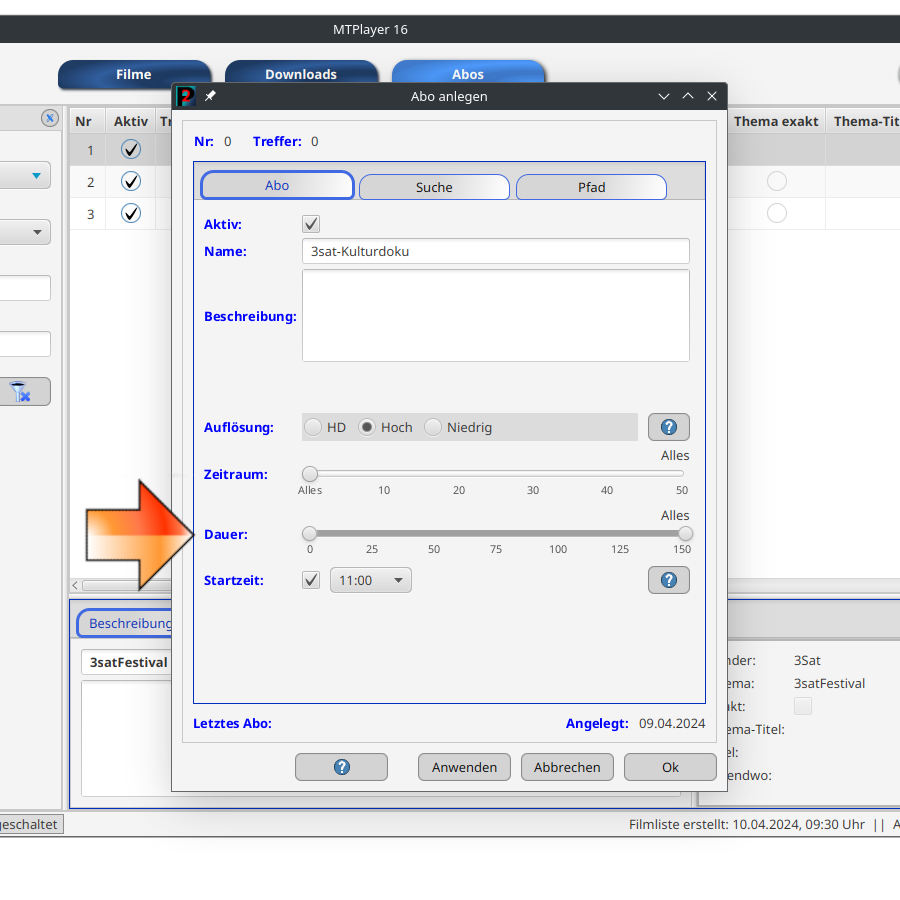
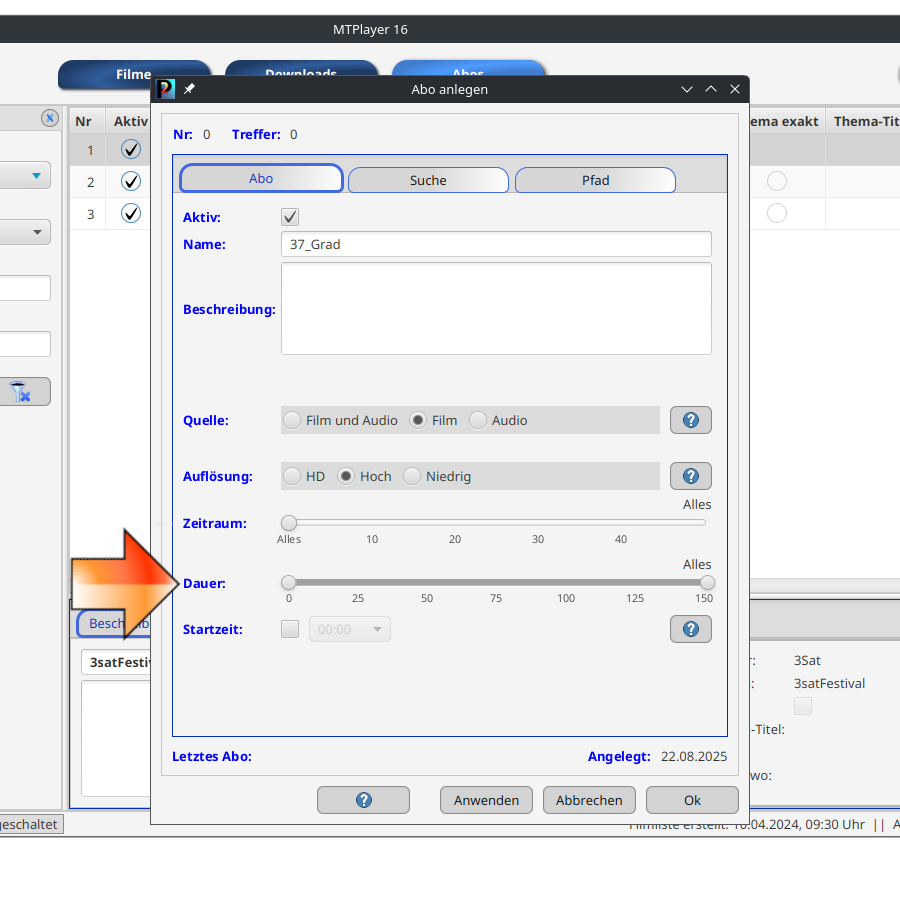
audiolist, tipOfDay, whatsNew

Changed region(s): [[0.0622, 0.0622, 0.84, 0.9333], [0.3111, 0.6844, 0.3422, 0.7156]]

diff --git a/src/main/java/de/p2tools/mtplayer/gui/tools/ProgTipOfDayFactory.java b/src/main/java/de/p2tools/mtplayer/gui/tools/ProgTipOfDayFactory.java
@@ -79,15 +79,17 @@ public class ProgTipOfDayFactory {
         pToolTipList.add(pToolTip);
 
         text = START;
-        text += "Live-Suche in den ARD/ZDF\n" +
-                "Mediatheken:\n\n" +
+        text += "Live-Suche in den\n" +
+                "ARD/ZDF Mediatheken:\n\n" +
                 "Ist die Live-Suche eingeschaltet,\n" +
                 "kann damit in den Mediatheken\n" +
                 "von ARD und ZDF gesucht werden.\n" +
                 "Es ist auch möglich, mit der URL\n" +
                 "einer Filmseite den Film zu suchen.\n" +
                 "Die Filme können dann ganz normal\n" +
-                "angesehen oder gespeichert werden.";
+                "angesehen oder gespeichert werden.\n" +
+                "In den Einstellungen kann die \n" +
+                "Live-Suche ausgeblendet werden.";
         image = "/de/p2tools/mtplayer/res/tooltips/Live_Suche.png";
         pToolTip = new P2TipOfDay(text, image);
         pToolTipList.add(pToolTip);
@@ -173,6 +175,16 @@ public class ProgTipOfDayFactory {
 
         text = START;
         text += "In den Einstellungen des Abos\n" +
+                "kann auch vorgeben werden,\n" +
+                "ob ein Beitrag in der\n" +
+                "Filmliste/Audioliste oder\n" +
+                "beiden gesucht werden soll.";
+        image = "/de/p2tools/mtplayer/res/tooltips/AboEinstellungen_Quelle.png";
+        pToolTip = new P2TipOfDay(text, image);
+        pToolTipList.add(pToolTip);
+
+        text = START;
+        text += "In den Einstellungen des Abos\n" +
                 "kann auch die Startzeit\n" +
                 "der Downloads aus diesem\n" +
                 "Abo vorgegeben werden.\n\n" +
@@ -202,7 +214,8 @@ public class ProgTipOfDayFactory {
                 "wichtig sind.\n\n" +
                 "Das untere Menü ist immer\n" +
                 "für den jeweils angezeigten\n" +
-                "Tab (Filme, Live, Downloads, Abos).";
+                "Tab (Filme, Audios,\n" +
+                "Live, Downloads, Abos).";
         image = "/de/p2tools/mtplayer/res/tooltips/Menue.png";
         pToolTip = new P2TipOfDay(text, image);
         pToolTipList.add(pToolTip);
@@ -283,17 +296,18 @@ public class ProgTipOfDayFactory {
 
         text = START;
         text += "Einstellungen zum Filtern\n" +
-                "im Tab Filme können hier\n" +
-                "erreicht werden.";
+                "im Tab Filme/Audios können\n" +
+                "hier erreicht werden.";
         image = "/de/p2tools/mtplayer/res/tooltips/GuiFilme_Filter_1.png";
         pToolTip = new P2TipOfDay(text, image);
         pToolTipList.add(pToolTip);
 
         text = START;
         text += "In den Filtereinstellungen bei\n" +
-                "den Filmen können Filter ein- und\n" +
-                "ausgeschaltet werden. Beim Suchen werden\n" +
-                "nur die eingeschalteten Filter\n" +
+                "den Filmen/Audios können Filter\n" +
+                "ein- und ausgeschaltet werden.\n" +
+                "Beim Suchen werden nur\n" +
+                "die eingeschalteten Filter\n" +
                 "verwendet. Das Suchen ist schneller\n" +
                 "wenn nicht alle Filter eingeschaltet sind.";
         image = "/de/p2tools/mtplayer/res/tooltips/GuiFilme_Filter_2.png";
@@ -302,14 +316,25 @@ public class ProgTipOfDayFactory {
 
         text = START;
         text += "In den Filtereinstellungen bei\n" +
-                "den Filmen kann eine Wartezeit\n" +
-                "vorgegeben werden.\n\n" +
+                "den Filmen/Audios kann eine\n" +
+                "Wartezeit vorgegeben werden.\n\n" +
                 "Diese wird dann bei der Suche\n" +
                 "in den Textfeldern abgewartet,\n" +
                 "bis die Suche beginnt.\n\n" +
                 "Es wird dann nicht bei jedem\n" +
                 "Buchstaben die Suche gestartet.";
         image = "/de/p2tools/mtplayer/res/tooltips/GuiFilme_Filter_3.png";
+        pToolTip = new P2TipOfDay(text, image);
+        pToolTipList.add(pToolTip);
+
+        text = START;
+        text += "In den Filmen/Audios kann ein\n" +
+                "einfacher Filter über das\n" +
+                "Menü eingestellt werden. Er\n" +
+                "enthält nur das nötigste und\n" +
+                "ist dadurch etwas leichter\n" +
+                "zu bedienen.";
+        image = "/de/p2tools/mtplayer/res/tooltips/EinfacherFilter.png";
         pToolTip = new P2TipOfDay(text, image);
         pToolTipList.add(pToolTip);
     }

diff --git a/src/main/java/de/p2tools/mtplayer/controller/update/WhatsNewList.java b/src/main/java/de/p2tools/mtplayer/controller/update/WhatsNewList.java
@@ -39,13 +39,7 @@ public class WhatsNewList extends ArrayList<WhatsNewInfo> {
     }
 
     private void addWhatsNew() {
-        WhatsNewInfo whatsNewInfo = new WhatsNewInfo(LocalDate.of(2025, 4, 7),
-                "",
-                "Live-Suche ZDF",
-                "Die Live-Suche für das ZDF wurde an die geänderte Mediathek angepasst.", 50);
-        add(whatsNewInfo);
-
-        whatsNewInfo = new WhatsNewInfo(LocalDate.of(2025, 4, 28),
+        WhatsNewInfo whatsNewInfo = new WhatsNewInfo(LocalDate.of(2025, 4, 28),
                 "/de/p2tools/mtplayer/res/whatsnew/whatsNew_bookmark.png",
 
                 "Bookmarks",
@@ -63,6 +57,19 @@ public class WhatsNewList extends ArrayList<WhatsNewInfo> {
                         "angezeigt werden. Er enthält nur das nötigste und ist " +
                         "übersichtlicher. Umschalten lässt sich das " +
                         "im Film-Menü->Einfacher Filter.", 100);
+        add(whatsNewInfo);
+
+        whatsNewInfo = new WhatsNewInfo(LocalDate.of(2025, 8, 25),
+                "/de/p2tools/mtplayer/res/whatsnew/whatsNew_audiolist.png",
+
+                "Audiothek",
+                "Jetzt werden auch die Beiträge der ARD-Audiothek " +
+                        "angezeigt. Die Beiträge können genauso wie die Filme " +
+                        "abgespielt und aufgezeichnet werden. Auch Abos lassen sich " +
+                        "anlegen.\n" +
+                        "Wer die Audiothek nicht verwenden will, kann sie in den Einstellungen " +
+                        "abschalten.\n" +
+                        "Wenns Vorschläge dazu gibt, gerne per Mail oder im Forum.", 140);
         add(whatsNewInfo);
     }
 }
